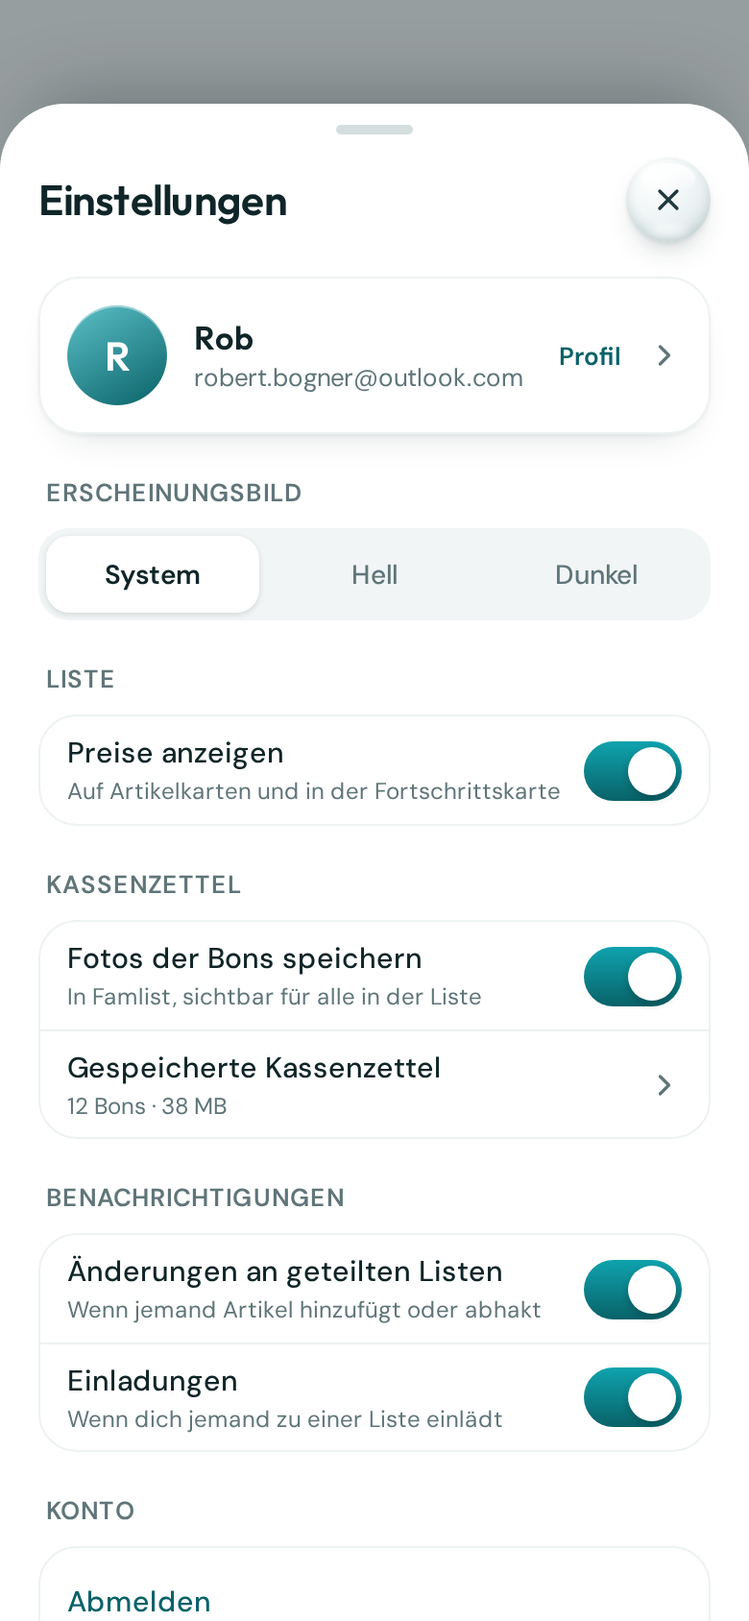
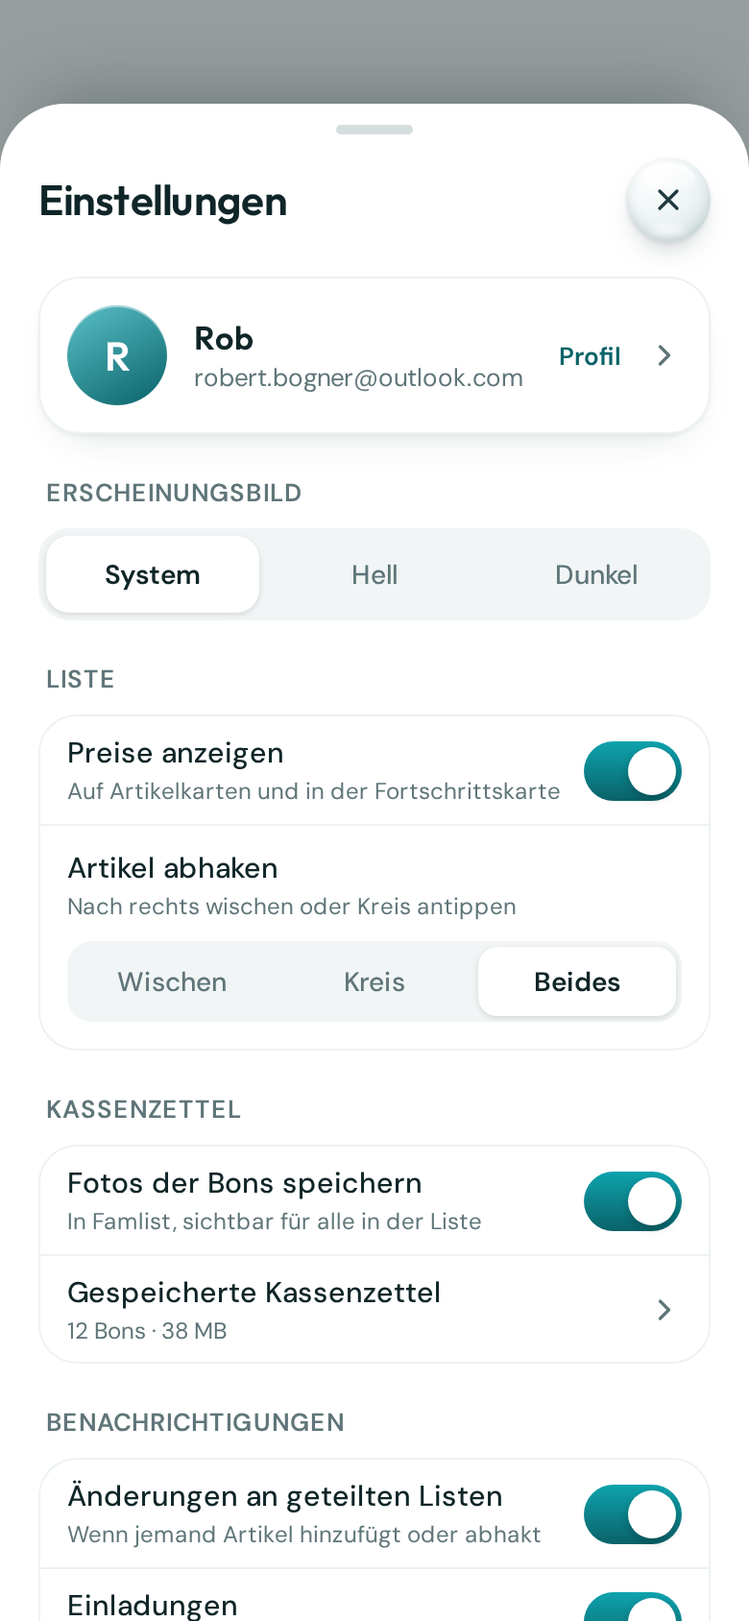
DOCS(design): Boards ListSwipeOnly und SettingsCheckMode, SPEC/PLAN

diff --git a/design-handoff/Design/html/Settings.dc.html b/design-handoff/Design/html/Settings.dc.html
@@ -40,11 +40,11 @@ section>*{flex-shrink:0}
 <button role="radio" aria-checked="true" style="height: 40px; border: 0; border-radius: 12px; background: {{k.segOn}}; color: {{k.segOnText}}; font-size: 14px; font-weight: 600; box-shadow: 0 1px 3px rgba(0,0,0,0.12)">System</button>
 <button role="radio" aria-checked="false" style="height: 40px; border: 0; border-radius: 12px; background: transparent; color: {{k.sub}}; font-size: 14px; font-weight: 500">Hell</button>
 <button role="radio" aria-checked="false" style="height: 40px; border: 0; border-radius: 12px; background: transparent; color: {{k.sub}}; font-size: 14px; font-weight: 500">Dunkel</button>
-</div><span style="margin-top: 22px; padding: 0 4px; font-size: 13px; font-weight: 600; letter-spacing: 0.04em; text-transform: uppercase; color: {{k.sub}}">Liste</span><div style="margin-top: 10px; border-radius: 20px; background: {{k.card}}; border: 1px solid {{k.cardBorder}}; overflow: hidden"><div style="min-height: 56px; box-sizing: border-box; padding: 8px 14px;  display: flex; align-items: center; gap: 12px"><span style="flex-grow: 1; display: flex; flex-direction: column; gap: 2px"><span style="font-size: 15px; font-weight: 500; color: {{k.text}}">Preise anzeigen</span><span style="font-size: 12px; color: {{k.sub}}">Auf Artikelkarten und in der Fortschrittskarte</span></span><span role="switch" aria-checked="true" style="position: relative; width: 51px; height: 31px; border-radius: 16px; background: {{k.toggleOn}}; flex-shrink: 0"><span style="position: absolute; top: 3px; right: 3px; width: 25px; height: 25px; border-radius: 50%; background: #FFFFFF; box-shadow: 0 2px 4px rgba(0,0,0,0.2)"></span></span></div></div><span style="margin-top: 22px; padding: 0 4px; font-size: 13px; font-weight: 600; letter-spacing: 0.04em; text-transform: uppercase; color: {{k.sub}}">Kassenzettel</span><div style="margin-top: 10px; border-radius: 20px; background: {{k.card}}; border: 1px solid {{k.cardBorder}}; overflow: hidden; flex-shrink: 0"><div style="min-height: 56px; box-sizing: border-box; padding: 8px 14px; display: flex; align-items: center; gap: 12px"><span style="flex-grow: 1; display: flex; flex-direction: column; gap: 2px"><span style="font-size: 15px; font-weight: 500; color: {{k.text}}">Fotos der Bons speichern</span><span style="font-size: 12px; color: {{k.sub}}">In Famlist, sichtbar für alle in der Liste</span></span><span role="switch" aria-checked="true" style="position: relative; width: 51px; height: 31px; border-radius: 16px; background: {{k.toggleOn}}; flex-shrink: 0"><span style="position: absolute; top: 3px; right: 3px; width: 25px; height: 25px; border-radius: 50%; background: #FFFFFF; box-shadow: 0 2px 4px rgba(0,0,0,0.2)"></span></span></div><button aria-label="Gespeicherte Kassenzettel ansehen" style="width: 100%; min-height: 56px; box-sizing: border-box; padding: 8px 14px; border: 0; border-top: 1px solid {{k.line}}; background: transparent; display: flex; align-items: center; gap: 12px; text-align: left; cursor: pointer; color: {{k.text}}"><span style="flex-grow: 1; display: flex; flex-direction: column; gap: 2px"><span style="font-size: 15px; font-weight: 500">Gespeicherte Kassenzettel</span><span style="font-size: 12px; color: {{k.sub}}">12 Bons · 38 MB</span></span><svg width="18" height="18" viewBox="0 0 24 24" fill="none" stroke="{{k.sub}}" stroke-width="2.2" stroke-linecap="round" stroke-linejoin="round"><path d="M9 6l6 6-6 6"></path></svg></button></div><span style="margin-top: 22px; padding: 0 4px; font-size: 13px; font-weight: 600; letter-spacing: 0.04em; text-transform: uppercase; color: {{k.sub}}">Benachrichtigungen</span><div style="margin-top: 10px; border-radius: 20px; background: {{k.card}}; border: 1px solid {{k.cardBorder}}; overflow: hidden"><div style="min-height: 56px; box-sizing: border-box; padding: 8px 14px;  display: flex; align-items: center; gap: 12px"><span style="flex-grow: 1; display: flex; flex-direction: column; gap: 2px"><span style="font-size: 15px; font-weight: 500; color: {{k.text}}">Änderungen an geteilten Listen</span><span style="font-size: 12px; color: {{k.sub}}">Wenn jemand Artikel hinzufügt oder abhakt</span></span><span role="switch" aria-checked="true" style="position: relative; width: 51px; height: 31px; border-radius: 16px; background: {{k.toggleOn}}; flex-shrink: 0"><span style="position: absolute; top: 3px; right: 3px; width: 25px; height: 25px; border-radius: 50%; background: #FFFFFF; box-shadow: 0 2px 4px rgba(0,0,0,0.2)"></span></span></div><div style="min-height: 56px; box-sizing: border-box; padding: 8px 14px; border-top: 1px solid {{k.line}}; display: flex; align-items: center; gap: 12px"><span style="flex-grow: 1; display: flex; flex-direction: column; gap: 2px"><span style="font-size: 15px; font-weight: 500; color: {{k.text}}">Einladungen</span><span style="font-size: 12px; color: {{k.sub}}">Wenn dich jemand zu einer Liste einlädt</span></span><span role="switch" aria-checked="true" style="position: relative; width: 51px; height: 31px; border-radius: 16px; background: {{k.toggleOn}}; flex-shrink: 0"><span style="position: absolute; top: 3px; right: 3px; width: 25px; height: 25px; border-radius: 50%; background: #FFFFFF; box-shadow: 0 2px 4px rgba(0,0,0,0.2)"></span></span></div></div><span style="margin-top: 22px; padding: 0 4px; font-size: 13px; font-weight: 600; letter-spacing: 0.04em; text-transform: uppercase; color: {{k.sub}}">Konto</span><div style="margin-top: 10px; border-radius: 20px; background: {{k.card}}; border: 1px solid {{k.cardBorder}}; overflow: hidden"><div style="min-height: 56px; box-sizing: border-box; padding: 8px 14px; display: flex; align-items: center; gap: 12px"><span style="flex-grow: 1; display: flex; flex-direction: column; gap: 2px"><span style="font-size: 15px; font-weight: 500; color: {{k.accentText}}">Abmelden</span></span></div><div style="min-height: 56px; box-sizing: border-box; padding: 8px 14px; border-top: 1px solid {{k.line}}; display: flex; align-items: center; gap: 12px"><span style="flex-grow: 1; display: flex; flex-direction: column; gap: 2px"><span style="font-size: 15px; font-weight: 500; color: {{k.danger}}">Konto löschen</span><span style="font-size: 12px; color: {{k.sub}}">Alle deine Daten werden entfernt</span></span></div></div>
+</div><span style="margin-top: 22px; padding: 0 4px; font-size: 13px; font-weight: 600; letter-spacing: 0.04em; text-transform: uppercase; color: {{k.sub}}">Liste</span><div style="margin-top: 10px; border-radius: 20px; background: {{k.card}}; border: 1px solid {{k.cardBorder}}; overflow: hidden"><div style="min-height: 56px; box-sizing: border-box; padding: 8px 14px;  display: flex; align-items: center; gap: 12px"><span style="flex-grow: 1; display: flex; flex-direction: column; gap: 2px"><span style="font-size: 15px; font-weight: 500; color: {{k.text}}">Preise anzeigen</span><span style="font-size: 12px; color: {{k.sub}}">Auf Artikelkarten und in der Fortschrittskarte</span></span><span role="switch" aria-checked="true" style="position: relative; width: 51px; height: 31px; border-radius: 16px; background: {{k.toggleOn}}; flex-shrink: 0"><span style="position: absolute; top: 3px; right: 3px; width: 25px; height: 25px; border-radius: 50%; background: #FFFFFF; box-shadow: 0 2px 4px rgba(0,0,0,0.2)"></span></span></div><div style="box-sizing: border-box; padding: 12px 14px 14px 14px; border-top: 1px solid {{k.line}}; display: flex; flex-direction: column; gap: 10px"><span style="display: flex; flex-direction: column; gap: 2px"><span style="font-size: 15px; font-weight: 500; color: {{k.text}}">Artikel abhaken</span><span style="font-size: 12px; color: {{k.sub}}">{{checkHint}}</span></span><div role="radiogroup" aria-label="Artikel abhaken" style="padding: 3px; border-radius: 13px; background: {{k.segBg}}; display: grid; grid-template-columns: repeat(3, minmax(0, 1fr)); gap: 3px"><sc-for list="{{checkModes}}" as="m" hint-placeholder-count="3"><button role="radio" aria-checked="{{m.on}}" style="height: 36px; border: 0; border-radius: 10px; background: {{m.bg}}; color: {{m.color}}; font-size: 14px; font-weight: {{m.weight}}; box-shadow: {{m.shadow}}">{{m.label}}</button></sc-for></div></div></div><span style="margin-top: 22px; padding: 0 4px; font-size: 13px; font-weight: 600; letter-spacing: 0.04em; text-transform: uppercase; color: {{k.sub}}">Kassenzettel</span><div style="margin-top: 10px; border-radius: 20px; background: {{k.card}}; border: 1px solid {{k.cardBorder}}; overflow: hidden; flex-shrink: 0"><div style="min-height: 56px; box-sizing: border-box; padding: 8px 14px; display: flex; align-items: center; gap: 12px"><span style="flex-grow: 1; display: flex; flex-direction: column; gap: 2px"><span style="font-size: 15px; font-weight: 500; color: {{k.text}}">Fotos der Bons speichern</span><span style="font-size: 12px; color: {{k.sub}}">In Famlist, sichtbar für alle in der Liste</span></span><span role="switch" aria-checked="true" style="position: relative; width: 51px; height: 31px; border-radius: 16px; background: {{k.toggleOn}}; flex-shrink: 0"><span style="position: absolute; top: 3px; right: 3px; width: 25px; height: 25px; border-radius: 50%; background: #FFFFFF; box-shadow: 0 2px 4px rgba(0,0,0,0.2)"></span></span></div><button aria-label="Gespeicherte Kassenzettel ansehen" style="width: 100%; min-height: 56px; box-sizing: border-box; padding: 8px 14px; border: 0; border-top: 1px solid {{k.line}}; background: transparent; display: flex; align-items: center; gap: 12px; text-align: left; cursor: pointer; color: {{k.text}}"><span style="flex-grow: 1; display: flex; flex-direction: column; gap: 2px"><span style="font-size: 15px; font-weight: 500">Gespeicherte Kassenzettel</span><span style="font-size: 12px; color: {{k.sub}}">12 Bons · 38 MB</span></span><svg width="18" height="18" viewBox="0 0 24 24" fill="none" stroke="{{k.sub}}" stroke-width="2.2" stroke-linecap="round" stroke-linejoin="round"><path d="M9 6l6 6-6 6"></path></svg></button></div><span style="margin-top: 22px; padding: 0 4px; font-size: 13px; font-weight: 600; letter-spacing: 0.04em; text-transform: uppercase; color: {{k.sub}}">Benachrichtigungen</span><div style="margin-top: 10px; border-radius: 20px; background: {{k.card}}; border: 1px solid {{k.cardBorder}}; overflow: hidden"><div style="min-height: 56px; box-sizing: border-box; padding: 8px 14px;  display: flex; align-items: center; gap: 12px"><span style="flex-grow: 1; display: flex; flex-direction: column; gap: 2px"><span style="font-size: 15px; font-weight: 500; color: {{k.text}}">Änderungen an geteilten Listen</span><span style="font-size: 12px; color: {{k.sub}}">Wenn jemand Artikel hinzufügt oder abhakt</span></span><span role="switch" aria-checked="true" style="position: relative; width: 51px; height: 31px; border-radius: 16px; background: {{k.toggleOn}}; flex-shrink: 0"><span style="position: absolute; top: 3px; right: 3px; width: 25px; height: 25px; border-radius: 50%; background: #FFFFFF; box-shadow: 0 2px 4px rgba(0,0,0,0.2)"></span></span></div><div style="min-height: 56px; box-sizing: border-box; padding: 8px 14px; border-top: 1px solid {{k.line}}; display: flex; align-items: center; gap: 12px"><span style="flex-grow: 1; display: flex; flex-direction: column; gap: 2px"><span style="font-size: 15px; font-weight: 500; color: {{k.text}}">Einladungen</span><span style="font-size: 12px; color: {{k.sub}}">Wenn dich jemand zu einer Liste einlädt</span></span><span role="switch" aria-checked="true" style="position: relative; width: 51px; height: 31px; border-radius: 16px; background: {{k.toggleOn}}; flex-shrink: 0"><span style="position: absolute; top: 3px; right: 3px; width: 25px; height: 25px; border-radius: 50%; background: #FFFFFF; box-shadow: 0 2px 4px rgba(0,0,0,0.2)"></span></span></div></div><span style="margin-top: 22px; padding: 0 4px; font-size: 13px; font-weight: 600; letter-spacing: 0.04em; text-transform: uppercase; color: {{k.sub}}">Konto</span><div style="margin-top: 10px; border-radius: 20px; background: {{k.card}}; border: 1px solid {{k.cardBorder}}; overflow: hidden"><div style="min-height: 56px; box-sizing: border-box; padding: 8px 14px; display: flex; align-items: center; gap: 12px"><span style="flex-grow: 1; display: flex; flex-direction: column; gap: 2px"><span style="font-size: 15px; font-weight: 500; color: {{k.accentText}}">Abmelden</span></span></div><div style="min-height: 56px; box-sizing: border-box; padding: 8px 14px; border-top: 1px solid {{k.line}}; display: flex; align-items: center; gap: 12px"><span style="flex-grow: 1; display: flex; flex-direction: column; gap: 2px"><span style="font-size: 15px; font-weight: 500; color: {{k.danger}}">Konto löschen</span><span style="font-size: 12px; color: {{k.sub}}">Alle deine Daten werden entfernt</span></span></div></div>
 </section>
 </div>
 </x-dc>
-<script type="text/x-dc" data-dc-script data-props='{"accent":{"editor":"color","default":"#0FA3AE","options":["#0FA3AE","#2E7DF6","#7C5CFF","#F07A3C"]},"theme":{"editor":"enum","default":"light","options":["light","dark"]},"$preview":{"width":390,"height":844}}'>
+<script type="text/x-dc" data-dc-script data-props='{"accent":{"editor":"color","default":"#0FA3AE","options":["#0FA3AE","#2E7DF6","#7C5CFF","#F07A3C"]},"theme":{"editor":"enum","default":"light","options":["light","dark"]},"check":{"editor":"enum","default":"both","options":["swipe","circle","both"]},"$preview":{"width":390,"height":844}}'>
 class Component extends DCLogic {
   renderVals() {
     const accent = this.props.accent ?? '#0FA3AE';
@@ -105,7 +105,11 @@ class Component extends DCLogic {
       shadow: 'inset 0 -3px 6px rgba(0,0,0,0.18), inset 0 1px 0 rgba(255,255,255,0.4), 0 10px 20px -10px rgba(229,72,77,0.6)',
       gloss: 'rgba(255,255,255,0.5)', glow: 'rgba(255,255,255,0.2)', icon: '#FFFFFF', iconShadow: 'drop-shadow(0 1px 2px rgba(80,0,0,0.3))'
     };
-    return { gp, gn, gnd, gd, k, cta, theme, accent, avatarBg: 'linear-gradient(150deg, ' + light + ', ' + deep + ')' };
+    const check = this.props.check ?? 'both';
+    const checkModes = [['swipe', 'Wischen'], ['circle', 'Kreis'], ['both', 'Beides']].map(([v, label]) => ({ label, on: String(v === check),
+      bg: v === check ? k.segOn : 'transparent', color: v === check ? k.segOnText : k.sub, weight: v === check ? 600 : 500, shadow: v === check ? '0 1px 3px rgba(0,0,0,0.12)' : 'none' }));
+    const checkHint = { swipe: 'Nach rechts wischen – ohne Kreis auf der Karte', circle: 'Kreis auf der Karte antippen – Wischen nach rechts aus', both: 'Nach rechts wischen oder Kreis antippen' }[check];
+    return { checkModes, checkHint, gp, gn, gnd, gd, k, cta, theme, accent, avatarBg: 'linear-gradient(150deg, ' + light + ', ' + deep + ')' };
   }
 }
 </script>

diff --git a/design-handoff/Design/html/Hybrid.dc.html b/design-handoff/Design/html/Hybrid.dc.html
@@ -109,7 +109,7 @@ input::placeholder{color:inherit;opacity:1}
 <div style="height: 94px; box-sizing: border-box; padding: 14px; border-radius: 24px; background: {{t.card}}; border: 1px solid {{t.cardBorder}}; box-shadow: {{t.cardShadow}}; display: flex; align-items: center; gap: 16px">
 <div style="width: 64px; height: 64px; border-radius: 18px; background: {{t.thumb}}; box-shadow: {{t.thumbShadow}}; overflow: hidden; flex-shrink: 0"><img src="{{f.img}}" alt="" width="64" height="64" style="display: block; width: 64px; height: 64px"></div>
 <div style="display: flex; flex-direction: column; gap: 8px; flex-grow: 1; min-width: 0; align-items: flex-start"><span style="font-family: 'Outfit', sans-serif; font-size: 19px; font-weight: 600; color: {{t.text}}">{{f.name}}</span><span style="padding: 4px 11px; border-radius: 999px; background: {{t.chipBg}}; color: {{accentText}}; font-size: 13px; font-weight: 600; box-shadow: {{t.chipInset}}; white-space: nowrap">{{f.qty}}</span></div>
-<div style="display: flex; flex-direction: column; align-items: flex-end; gap: 6px; flex-shrink: 0"><span style="width: 32px; height: 32px; box-sizing: border-box; border-radius: 50%; border: 2px solid {{t.checkRing}}; background: {{t.checkBg}}; box-shadow: {{t.checkShadow}}"></span><span style="font-family: 'Outfit', sans-serif; font-size: 15px; font-weight: 600; line-height: 19px; white-space: nowrap; color: {{t.text}}">{{f.price}}</span></div>
+<div style="display: flex; flex-direction: column; align-items: flex-end; gap: 6px; flex-shrink: 0"><sc-if value="{{circles}}" hint-placeholder-val="{{ true }}"><span style="width: 32px; height: 32px; box-sizing: border-box; border-radius: 50%; border: 2px solid {{t.checkRing}}; background: {{t.checkBg}}; box-shadow: {{t.checkShadow}}"></span></sc-if><span style="font-family: 'Outfit', sans-serif; font-size: 15px; font-weight: 600; line-height: 19px; white-space: nowrap; color: {{t.text}}">{{f.price}}</span></div>
 </div>
 </sc-for>
 </div>
@@ -188,12 +188,12 @@ input::placeholder{color:inherit;opacity:1}
 <button aria-label="Sync fehlgeschlagen. Tippen zum erneuten Synchronisieren." style="width: 32px; height: 44px; border: 0; background: transparent; padding: 0; display: flex; align-items: center; justify-content: center; cursor: pointer; flex-shrink: 0"><svg width="20" height="20" viewBox="0 0 24 24" fill="none" stroke="{{na.text}}" stroke-width="2" stroke-linecap="round" stroke-linejoin="round"><path d="M10.3 3.9 2.4 17.6A2 2 0 0 0 4.1 20.6h15.8a2 2 0 0 0 1.7-3L13.7 3.9a2 2 0 0 0-3.4 0zM12 9v4M12 17h.01"></path></svg></button>
 </sc-if>
 <div style="display: flex; flex-direction: column; align-items: flex-end; gap: 6px; flex-shrink: 0">
-<sc-if value="{{checked}}" hint-placeholder-val="{{ false }}">
+<sc-if value="{{checkedCircle}}" hint-placeholder-val="{{ false }}">
 <button aria-label="Butter ist abgehakt" style="position: relative; width: 32px; height: 32px; border-radius: 50%; border: 0; background: {{fabBg}}; box-shadow: inset 0 1px 0 rgba(255,255,255,0.45), 0 5px 11px -5px {{accentGlow}}; padding: 0; cursor: pointer; flex-shrink: 0; display: flex; align-items: center; justify-content: center">
 <svg width="15" height="15" viewBox="0 0 24 24" fill="none" stroke="#ffffff" stroke-width="2.4" stroke-linecap="round" stroke-linejoin="round"><path d="M5 12.5l4.5 4.5L19 7.5"></path></svg>
 </button>
 </sc-if>
-<sc-if value="{{unchecked}}" hint-placeholder-val="{{ true }}">
+<sc-if value="{{uncheckedCircle}}" hint-placeholder-val="{{ true }}">
 <button aria-label="Butter abhaken" style="width: 32px; height: 32px; box-sizing: border-box; border-radius: 50%; border: 2px solid {{t.checkRing}}; background: {{t.checkBg}}; box-shadow: {{t.checkShadow}}; padding: 0; cursor: pointer; flex-shrink: 0"></button>
 </sc-if>
 <sc-if value="{{showPrices}}" hint-placeholder-val="{{ true }}"><span style="font-family: 'Outfit', sans-serif; font-size: 15px; font-weight: 600; line-height: 19px; white-space: nowrap; color: {{t.text}}; opacity: {{itemOpacity}}">1,49 €</span></sc-if>
@@ -205,7 +205,7 @@ input::placeholder{color:inherit;opacity:1}
 <div style="height: 94px; box-sizing: border-box; padding: 14px; border-radius: 24px; background: {{t.card}}; border: 1px solid {{t.cardBorder}}; box-shadow: {{t.cardShadow}}; display: flex; align-items: center; gap: 16px; margin-top: -6px">
 <div style="width: 64px; height: 64px; border-radius: 18px; background: {{t.thumb}}; box-shadow: {{t.thumbShadow}}; display: flex; align-items: center; justify-content: center; flex-shrink: 0"><svg width="24" height="24" viewBox="0 0 24 24" fill="none" stroke="{{t.thumbIcon}}" stroke-width="1.7" stroke-linecap="round" stroke-linejoin="round"><path d="M3 3l18 18"></path><path d="M9.5 5h5l1.5 2H19a2 2 0 0 1 2 2v8.5M17 19H5a2 2 0 0 1-2-2V9a2 2 0 0 1 2-2h2"></path><path d="M9.9 10.2a3 3 0 0 0 4 4"></path></svg></div>
 <div style="display: flex; flex-direction: column; gap: 8px; flex-grow: 1; align-items: flex-start"><span style="font-family: 'Outfit', sans-serif; font-size: 19px; font-weight: 600; color: {{t.text}}">{{m.name}}</span><span style="padding: 4px 11px; border-radius: 999px; background: {{t.chipBg}}; color: {{accentText}}; font-size: 13px; font-weight: 600; box-shadow: {{t.chipInset}}">{{m.qty}}</span></div>
-<div style="display: flex; flex-direction: column; align-items: flex-end; gap: 6px; flex-shrink: 0"><span style="width: 32px; height: 32px; box-sizing: border-box; border-radius: 50%; border: 2px solid {{t.checkRing}}; background: {{t.checkBg}}; box-shadow: {{t.checkShadow}}"></span><sc-if value="{{showPrices}}" hint-placeholder-val="{{ true }}"><span style="font-family: 'Outfit', sans-serif; font-size: 15px; font-weight: 600; line-height: 19px; white-space: nowrap; color: {{t.text}}">{{m.price}}</span></sc-if></div>
+<div style="display: flex; flex-direction: column; align-items: flex-end; gap: 6px; flex-shrink: 0"><sc-if value="{{circles}}" hint-placeholder-val="{{ true }}"><span style="width: 32px; height: 32px; box-sizing: border-box; border-radius: 50%; border: 2px solid {{t.checkRing}}; background: {{t.checkBg}}; box-shadow: {{t.checkShadow}}"></span></sc-if><sc-if value="{{showPrices}}" hint-placeholder-val="{{ true }}"><span style="font-family: 'Outfit', sans-serif; font-size: 15px; font-weight: 600; line-height: 19px; white-space: nowrap; color: {{t.text}}">{{m.price}}</span></sc-if></div>
 </div>
 </sc-for>
 </sc-if>
@@ -235,7 +235,7 @@ input::placeholder{color:inherit;opacity:1}
 
 </div>
 </x-dc>
-<script type="text/x-dc" data-dc-script data-props='{"accent":{"editor":"color","default":"#0FA3AE","options":["#0FA3AE","#2E7DF6","#7C5CFF","#F07A3C"]},"theme":{"editor":"enum","default":"light","options":["light","dark"]},"state":{"editor":"enum","default":"default","options":["default","checked","swipe","swipeCheck","swipeDelete","unavailable","syncFailed","openEmpty","doneEmpty","empty","fruit"]},"prices":{"editor":"boolean","default":true},"header":{"editor":"enum","default":"full","options":["full","compact"]},"$preview":{"width":390,"height":844}}'>
+<script type="text/x-dc" data-dc-script data-props='{"accent":{"editor":"color","default":"#0FA3AE","options":["#0FA3AE","#2E7DF6","#7C5CFF","#F07A3C"]},"theme":{"editor":"enum","default":"light","options":["light","dark"]},"check":{"editor":"enum","default":"both","options":["both","swipe","circle"]},"state":{"editor":"enum","default":"default","options":["default","checked","swipe","swipeCheck","swipeDelete","unavailable","syncFailed","openEmpty","doneEmpty","empty","fruit"]},"prices":{"editor":"boolean","default":true},"header":{"editor":"enum","default":"full","options":["full","compact"]},"$preview":{"width":390,"height":844}}'>
 class Component extends DCLogic {
   renderVals() {
     const accent = this.props.accent ?? '#0FA3AE';
@@ -317,6 +317,10 @@ class Component extends DCLogic {
       heroShadowCompact: 'inset 0 1px 0 rgba(255,255,255,0.35), inset 0 -1px 0 rgba(0,30,34,0.2), 0 12px 24px -12px ' + rgba(accent, dark ? 0.6 : 0.65),
       t, dark, showPrices: this.props.prices ?? true, theme: dark ? 'dark' : 'light', pillState: state === 'empty' ? 'empty' : (checked ? 'allDone' : 'open'),
       checked, unchecked: !checked, swipe, actions,
+      // Einstellung „Artikel abhaken“: both = Wischen + Kreis, swipe = nur Wischen (kein Kreis), circle = nur Kreis
+      circles: (this.props.check ?? 'both') !== 'swipe',
+      checkedCircle: checked && (this.props.check ?? 'both') !== 'swipe',
+      uncheckedCircle: !checked && (this.props.check ?? 'both') !== 'swipe',
       leading, lead, undoShown: state === 'checked',
       cardLeft: swipe ? '-256px' : (leading ? '96px' : (checked ? '-86px' : '0px')),
       itemOpacity: (checked || state === 'unavailable') ? '0.55' : '1',
@@ -324,11 +328,11 @@ class Component extends DCLogic {
       empty: state === 'empty', hasItems: state !== 'empty' && !filterEmpty && state !== 'fruit', filterEmpty,
       fruit: state === 'fruit',
       fruits: [
-        { name: 'Bananen', qty: '6 Stück', price: '1,49 €', img: 'assets/fruit/fruit.banana.svg' },
-        { name: 'Äpfel', qty: '1 kg', price: '2,49 €', img: 'assets/fruit/fruit.apple.svg' },
-        { name: 'Orangen', qty: '4 Stück', price: '2,99 €', img: 'assets/fruit/fruit.orange.svg' },
-        { name: 'Erdbeeren', qty: '500 g', price: '3,49 €', img: 'assets/fruit/fruit.strawberry.svg' },
-        { name: 'Ananas', qty: '1 Stück', price: '2,29 €', img: 'assets/fruit/fruit.pineapple.svg' }
+        { name: 'Bananen', qty: '6 Stück', price: '1,49 €', img: '/_blob/ee69b7c1fecda2d6553e3661b2e82ff0' },
+        { name: 'Äpfel', qty: '1 kg', price: '2,49 €', img: '/_blob/26aaa558bbe91fa9089e79727ce86e72' },
+        { name: 'Orangen', qty: '4 Stück', price: '2,99 €', img: '/_blob/f7fa851c8bcdb26e339f481144dbd34d' },
+        { name: 'Erdbeeren', qty: '500 g', price: '3,49 €', img: '/_blob/a9c56126129793a59b87514384b39686' },
+        { name: 'Ananas', qty: '1 Stück', price: '2,29 €', img: '/_blob/a5a49f115427c5904ae8823264634837' }
       ],
       fe: state === 'openEmpty' ? { title: 'Alles erledigt', message: 'Auf dieser Liste sind keine offenen Artikel mehr.' }
                                 : { title: 'Noch nichts abgehakt', message: 'Abgehakte Artikel erscheinen hier.' },

diff --git a/design-handoff/Design/html/SettingsCheckModeDark.dc.html b/design-handoff/Design/html/SettingsCheckModeDark.dc.html
@@ -1,0 +1,29 @@
+<!doctype html>
+<html lang="de">
+<head>
+<meta charset="utf-8">
+<title>Einstellungen – Artikel abhaken: nur Wischen – Dark</title>
+<script src="./support.js"></script>
+</head>
+<body>
+<x-dc>
+<helmet>
+<link rel="preconnect" href="https://fonts.googleapis.com">
+<link href="https://fonts.googleapis.com/css2?family=Outfit:wght@500;600;700&amp;family=DM+Sans:opsz,wght@9..40,400;9..40,500;9..40,600&amp;display=swap" rel="stylesheet">
+<style>
+body{margin:0;font-family:'DM Sans',system-ui,sans-serif}
+</style>
+</helmet>
+<div style="width: 390px; height: 844px; background: #071012">
+<dc-import name="Settings" theme="dark" check="swipe" accent="{{accent}}" hint-size="390px,844px"></dc-import>
+</div>
+</x-dc>
+<script type="text/x-dc" data-dc-script data-props='{"accent":{"editor":"color","default":"#1FC2CC","options":["#0FA3AE","#2E7DF6","#7C5CFF","#F07A3C","#1FC2CC"]},"$preview":{"width":390,"height":844}}'>
+class Component extends DCLogic {
+  renderVals() {
+    return { accent: this.props.accent ?? '#1FC2CC' };
+  }
+}
+</script>
+</body>
+</html>

diff --git a/design-handoff/Design/html/SettingsCheckMode.dc.html b/design-handoff/Design/html/SettingsCheckMode.dc.html
@@ -1,0 +1,29 @@
+<!doctype html>
+<html lang="de">
+<head>
+<meta charset="utf-8">
+<title>Einstellungen – Artikel abhaken: nur Wischen</title>
+<script src="./support.js"></script>
+</head>
+<body>
+<x-dc>
+<helmet>
+<link rel="preconnect" href="https://fonts.googleapis.com">
+<link href="https://fonts.googleapis.com/css2?family=Outfit:wght@500;600;700&amp;family=DM+Sans:opsz,wght@9..40,400;9..40,500;9..40,600&amp;display=swap" rel="stylesheet">
+<style>
+body{margin:0;font-family:'DM Sans',system-ui,sans-serif}
+</style>
+</helmet>
+<div style="width: 390px; height: 844px; background: #FFFFFF">
+<dc-import name="Settings" theme="light" check="swipe" accent="{{accent}}" hint-size="390px,844px"></dc-import>
+</div>
+</x-dc>
+<script type="text/x-dc" data-dc-script data-props='{"accent":{"editor":"color","default":"#0FA3AE","options":["#0FA3AE","#2E7DF6","#7C5CFF","#F07A3C","#1FC2CC"]},"$preview":{"width":390,"height":844}}'>
+class Component extends DCLogic {
+  renderVals() {
+    return { accent: this.props.accent ?? '#0FA3AE' };
+  }
+}
+</script>
+</body>
+</html>

diff --git a/design-handoff/Design/html/ListSwipeOnlyDark.dc.html b/design-handoff/Design/html/ListSwipeOnlyDark.dc.html
@@ -1,0 +1,29 @@
+<!doctype html>
+<html lang="de">
+<head>
+<meta charset="utf-8">
+<title>Liste – nur Wischen (ohne Kreis) – Dark</title>
+<script src="./support.js"></script>
+</head>
+<body>
+<x-dc>
+<helmet>
+<link rel="preconnect" href="https://fonts.googleapis.com">
+<link href="https://fonts.googleapis.com/css2?family=Outfit:wght@500;600;700&amp;family=DM+Sans:opsz,wght@9..40,400;9..40,500;9..40,600&amp;display=swap" rel="stylesheet">
+<style>
+body{margin:0;font-family:'DM Sans',system-ui,sans-serif}
+</style>
+</helmet>
+<div style="width: 390px; height: 844px; background: #071012">
+<dc-import name="Hybrid" theme="dark" check="swipe" accent="{{accent}}" hint-size="390px,844px"></dc-import>
+</div>
+</x-dc>
+<script type="text/x-dc" data-dc-script data-props='{"accent":{"editor":"color","default":"#1FC2CC","options":["#0FA3AE","#2E7DF6","#7C5CFF","#F07A3C","#1FC2CC"]},"$preview":{"width":390,"height":844}}'>
+class Component extends DCLogic {
+  renderVals() {
+    return { accent: this.props.accent ?? '#1FC2CC' };
+  }
+}
+</script>
+</body>
+</html>

diff --git a/design-handoff/Design/html/ListSwipeOnly.dc.html b/design-handoff/Design/html/ListSwipeOnly.dc.html
@@ -1,0 +1,29 @@
+<!doctype html>
+<html lang="de">
+<head>
+<meta charset="utf-8">
+<title>Liste – nur Wischen (ohne Kreis)</title>
+<script src="./support.js"></script>
+</head>
+<body>
+<x-dc>
+<helmet>
+<link rel="preconnect" href="https://fonts.googleapis.com">
+<link href="https://fonts.googleapis.com/css2?family=Outfit:wght@500;600;700&amp;family=DM+Sans:opsz,wght@9..40,400;9..40,500;9..40,600&amp;display=swap" rel="stylesheet">
+<style>
+body{margin:0;font-family:'DM Sans',system-ui,sans-serif}
+</style>
+</helmet>
+<div style="width: 390px; height: 844px; background: #FFFFFF">
+<dc-import name="Hybrid" theme="light" check="swipe" accent="{{accent}}" hint-size="390px,844px"></dc-import>
+</div>
+</x-dc>
+<script type="text/x-dc" data-dc-script data-props='{"accent":{"editor":"color","default":"#0FA3AE","options":["#0FA3AE","#2E7DF6","#7C5CFF","#F07A3C","#1FC2CC"]},"$preview":{"width":390,"height":844}}'>
+class Component extends DCLogic {
+  renderVals() {
+    return { accent: this.props.accent ?? '#0FA3AE' };
+  }
+}
+</script>
+</body>
+</html>

diff --git a/design-handoff/PLAN.md b/design-handoff/PLAN.md
@@ -31,6 +31,7 @@ Design-Quelle: `Design/html/` = 1:1-Kopie des Canvas (`Design/SYNC.md`), Übersi
 - [x] Aktionskarten statt iOS-Systemdialoge (29.09.2026): `.actionCard(isPresented:k:content:)` (ActionCardContent/-View/-Host/-Tokens, View+ActionCard) für Sync fehlgeschlagen, Foto hinzufügen, Liste löschen, Bon-Zeile zuordnen, Laden ändern, Artikelpreise aktualisieren, Abmelden, Kassenzettel löschen, Mitglied entfernen; „Abbrechen“/„Weiter scannen“ überall als neutrale Glas-Pille (auch Konto löschen, Endgültig löschen, Artikel löschen – Auswahl). UI-Tests angepasst – Build und Tests stehen noch aus
 - [x] Schieben zum Löschen + ✕ statt „Abbrechen“ (29.09.2026): `SlideToConfirm` (ab 85 %, Haptik, VoiceOver Doppeltippen, Ladekreis) für Liste löschen, Kassenzettel löschen, Mitglied entfernen, Konto löschen, Endgültig löschen; Aktionskarten mit ✕ oben rechts (`closable`, bei „Artikelpreise aktualisieren?“ aus). UI-Tests schieben per `press(forDuration:thenDragTo:)` – Build und Tests stehen noch aus
 - [x] Meine Listen: Wisch-Aktionen wie bei Artikeln (29.09.2026) – `SwipeableListRow` (rechts Favorit, links Löschen/Verlassen · Umbenennen · Duplizieren · Mitglieder), `LeadingFavoriteAction`, GlassActionButton-Stile duplicate/members; Löschen/Verlassen mit 5 s „Rückgängig“ (`PendingListRemoval`, `ListViewModel+ListUndo`) – per Wischen direkt, über das Kontextmenü nach „Schieben zum Löschen“. ListsUITests angepasst – Build und Tests stehen noch aus
+- [x] Einstellung „Artikel abhaken“ (29.09.2026): Wischen · Kreis · Beides, nur dieses Gerät (`CheckGesture`, @AppStorage „list.checkGesture“, Standard Beides) – `CheckGestureSettingRow` in Einstellungen → Liste; ItemCard ohne Kreis bei „Wischen“, SwipeableItemRow ohne Rechts-Wisch bei „Kreis“ (VoiceOver-Aktion „Abhaken“ ohne Kreis) – Build und Tests stehen noch aus
 ---
 
 ## 1. Ausgangslage (geprüft, nicht angenommen)

diff --git a/design-handoff/SPEC.md b/design-handoff/SPEC.md
@@ -75,6 +75,8 @@ Die Reihenfolge folgt der User Journey im Canvas (Seite „User Journey“, Absc
 |  | Kassenzettel prüfen – nicht gefunden | ReceiptReviewMissing | ja | – (nur HTML) |
 |  | Artikelpreise aktualisieren? | ReceiptPriceAlert | ja | – (nur HTML) |
 | 7 · Einstellungen & Konto | Einstellungen | Settings | ja | `SettingsScreen` |
+|  | Einstellungen – Artikel abhaken: nur Wischen | SettingsCheckMode | ja | – (nur HTML) |
+|  | Liste – nur Wischen (ohne Kreis) | ListSwipeOnly | ja | – (nur HTML) |
 |  | Abmelden – ungesendete Änderungen | SignOutDialog | ja | – (nur HTML) |
 |  | Profil bearbeiten | EditProfile | ja | `EditProfileScreen` |
 |  | Kassenzettel-Archiv | ReceiptArchive | ja | – (nur HTML) |
@@ -170,6 +172,7 @@ Die Reihenfolge folgt der User Journey im Canvas (Seite „User Journey“, Absc
 10. **Konto**
     - ☰ → Einstellungen. Oben ist eine Profilkarte; sie ist der **einzige** Weg zu Profil bearbeiten.
     - Erscheinungsbild: System / Hell / Dunkel. Benachrichtigungen: geteilte Listen, Einladungen.
+    - Liste → „Artikel abhaken“ (Segment Wischen · Kreis · Beides, Standard Beides, lokal gespeichert): Wischen = kein Kreis auf der Karte, abhaken nur per Rechts-Wisch (ListSwipeOnly); Kreis = Rechts-Wisch aus (Links-Wisch-Aktionen bleiben); Beides = wie bisher. Unterzeile erklärt die Wahl (SettingsCheckMode).
     - Abmelden; mit ungesendeten Änderungen fragt eine Aktionskarte nach (SignOutDialog).
     - **Konto löschen** (Pflicht für den App Store): archiviert das Konto 60 Tage. Geteilte Listen verschwinden sofort bei allen Mitgliedern, aus fremden Listen wird man entfernt. Details: `ACCOUNT_ARCHIVE_PROMPT.md`.
     - **Konto wiederherstellen:** Wer sich innerhalb der 60 Tage anmeldet, sieht RestoreAccount (Laden: RestoreAccountLoading, offline: RestoreAccountOffline) mit „Konto wiederherstellen“, „Abmelden“ und „Endgültig löschen“ (Bestätigung RestorePurgeDialog).
